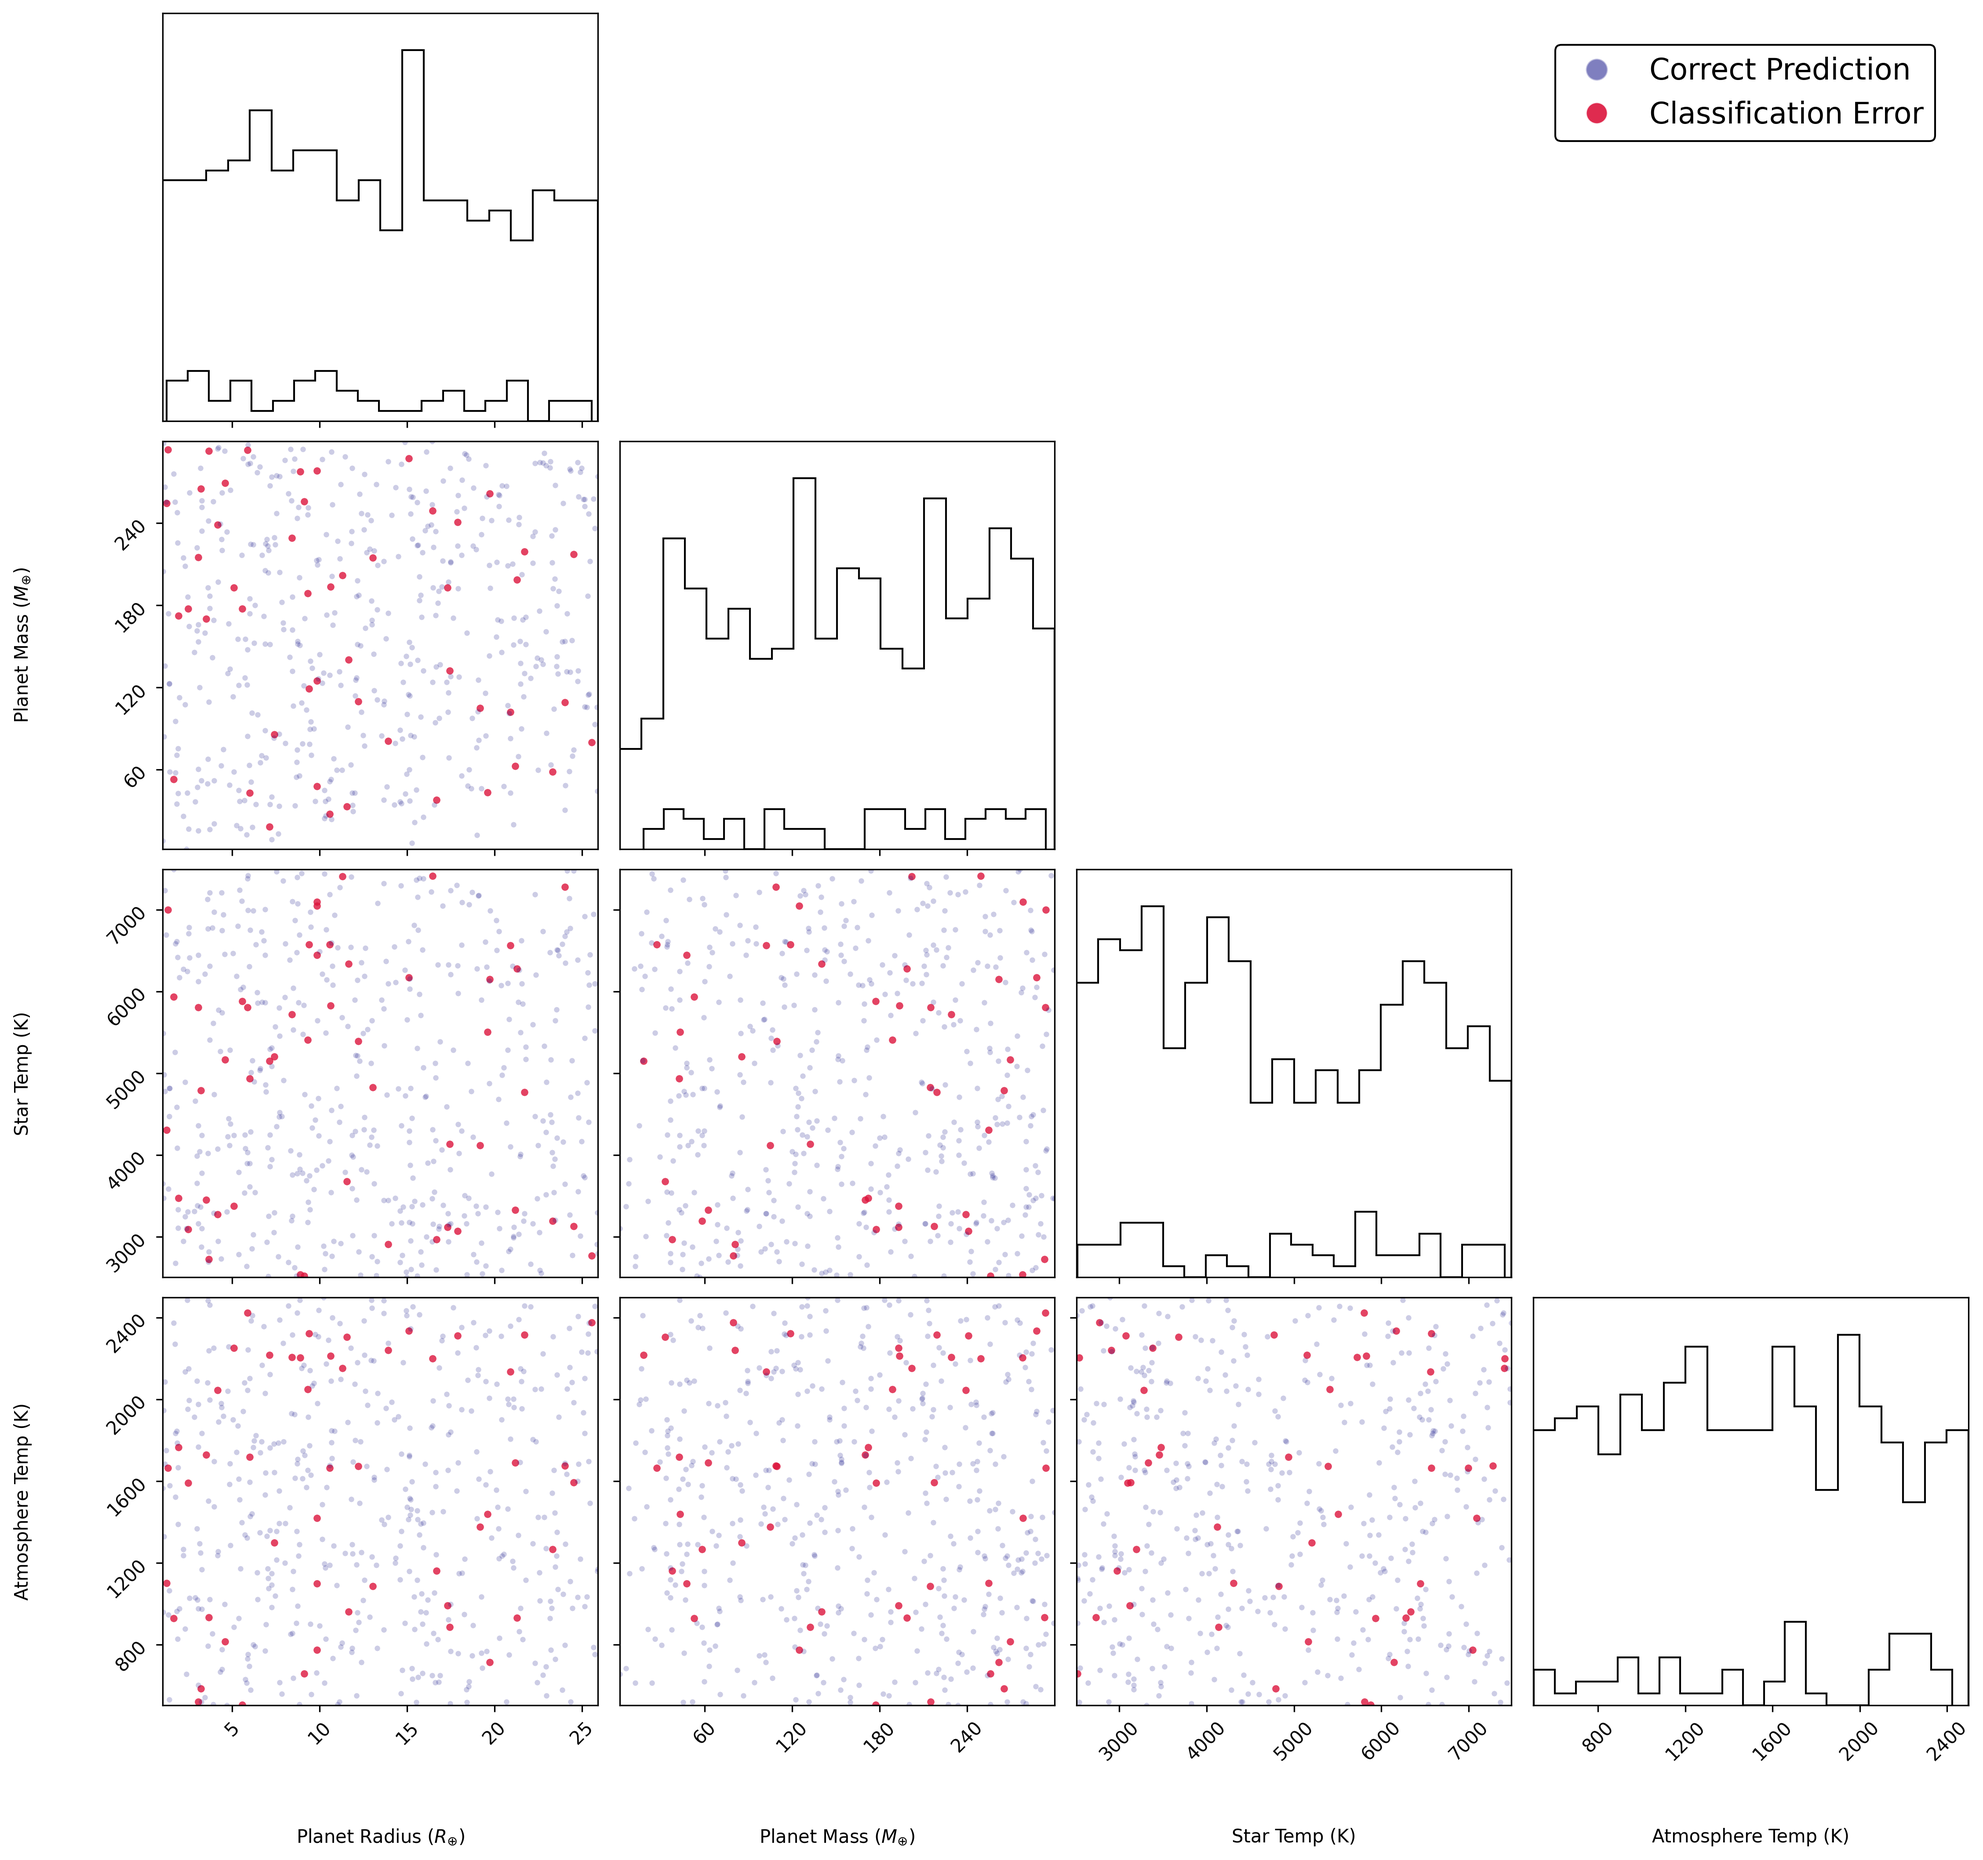
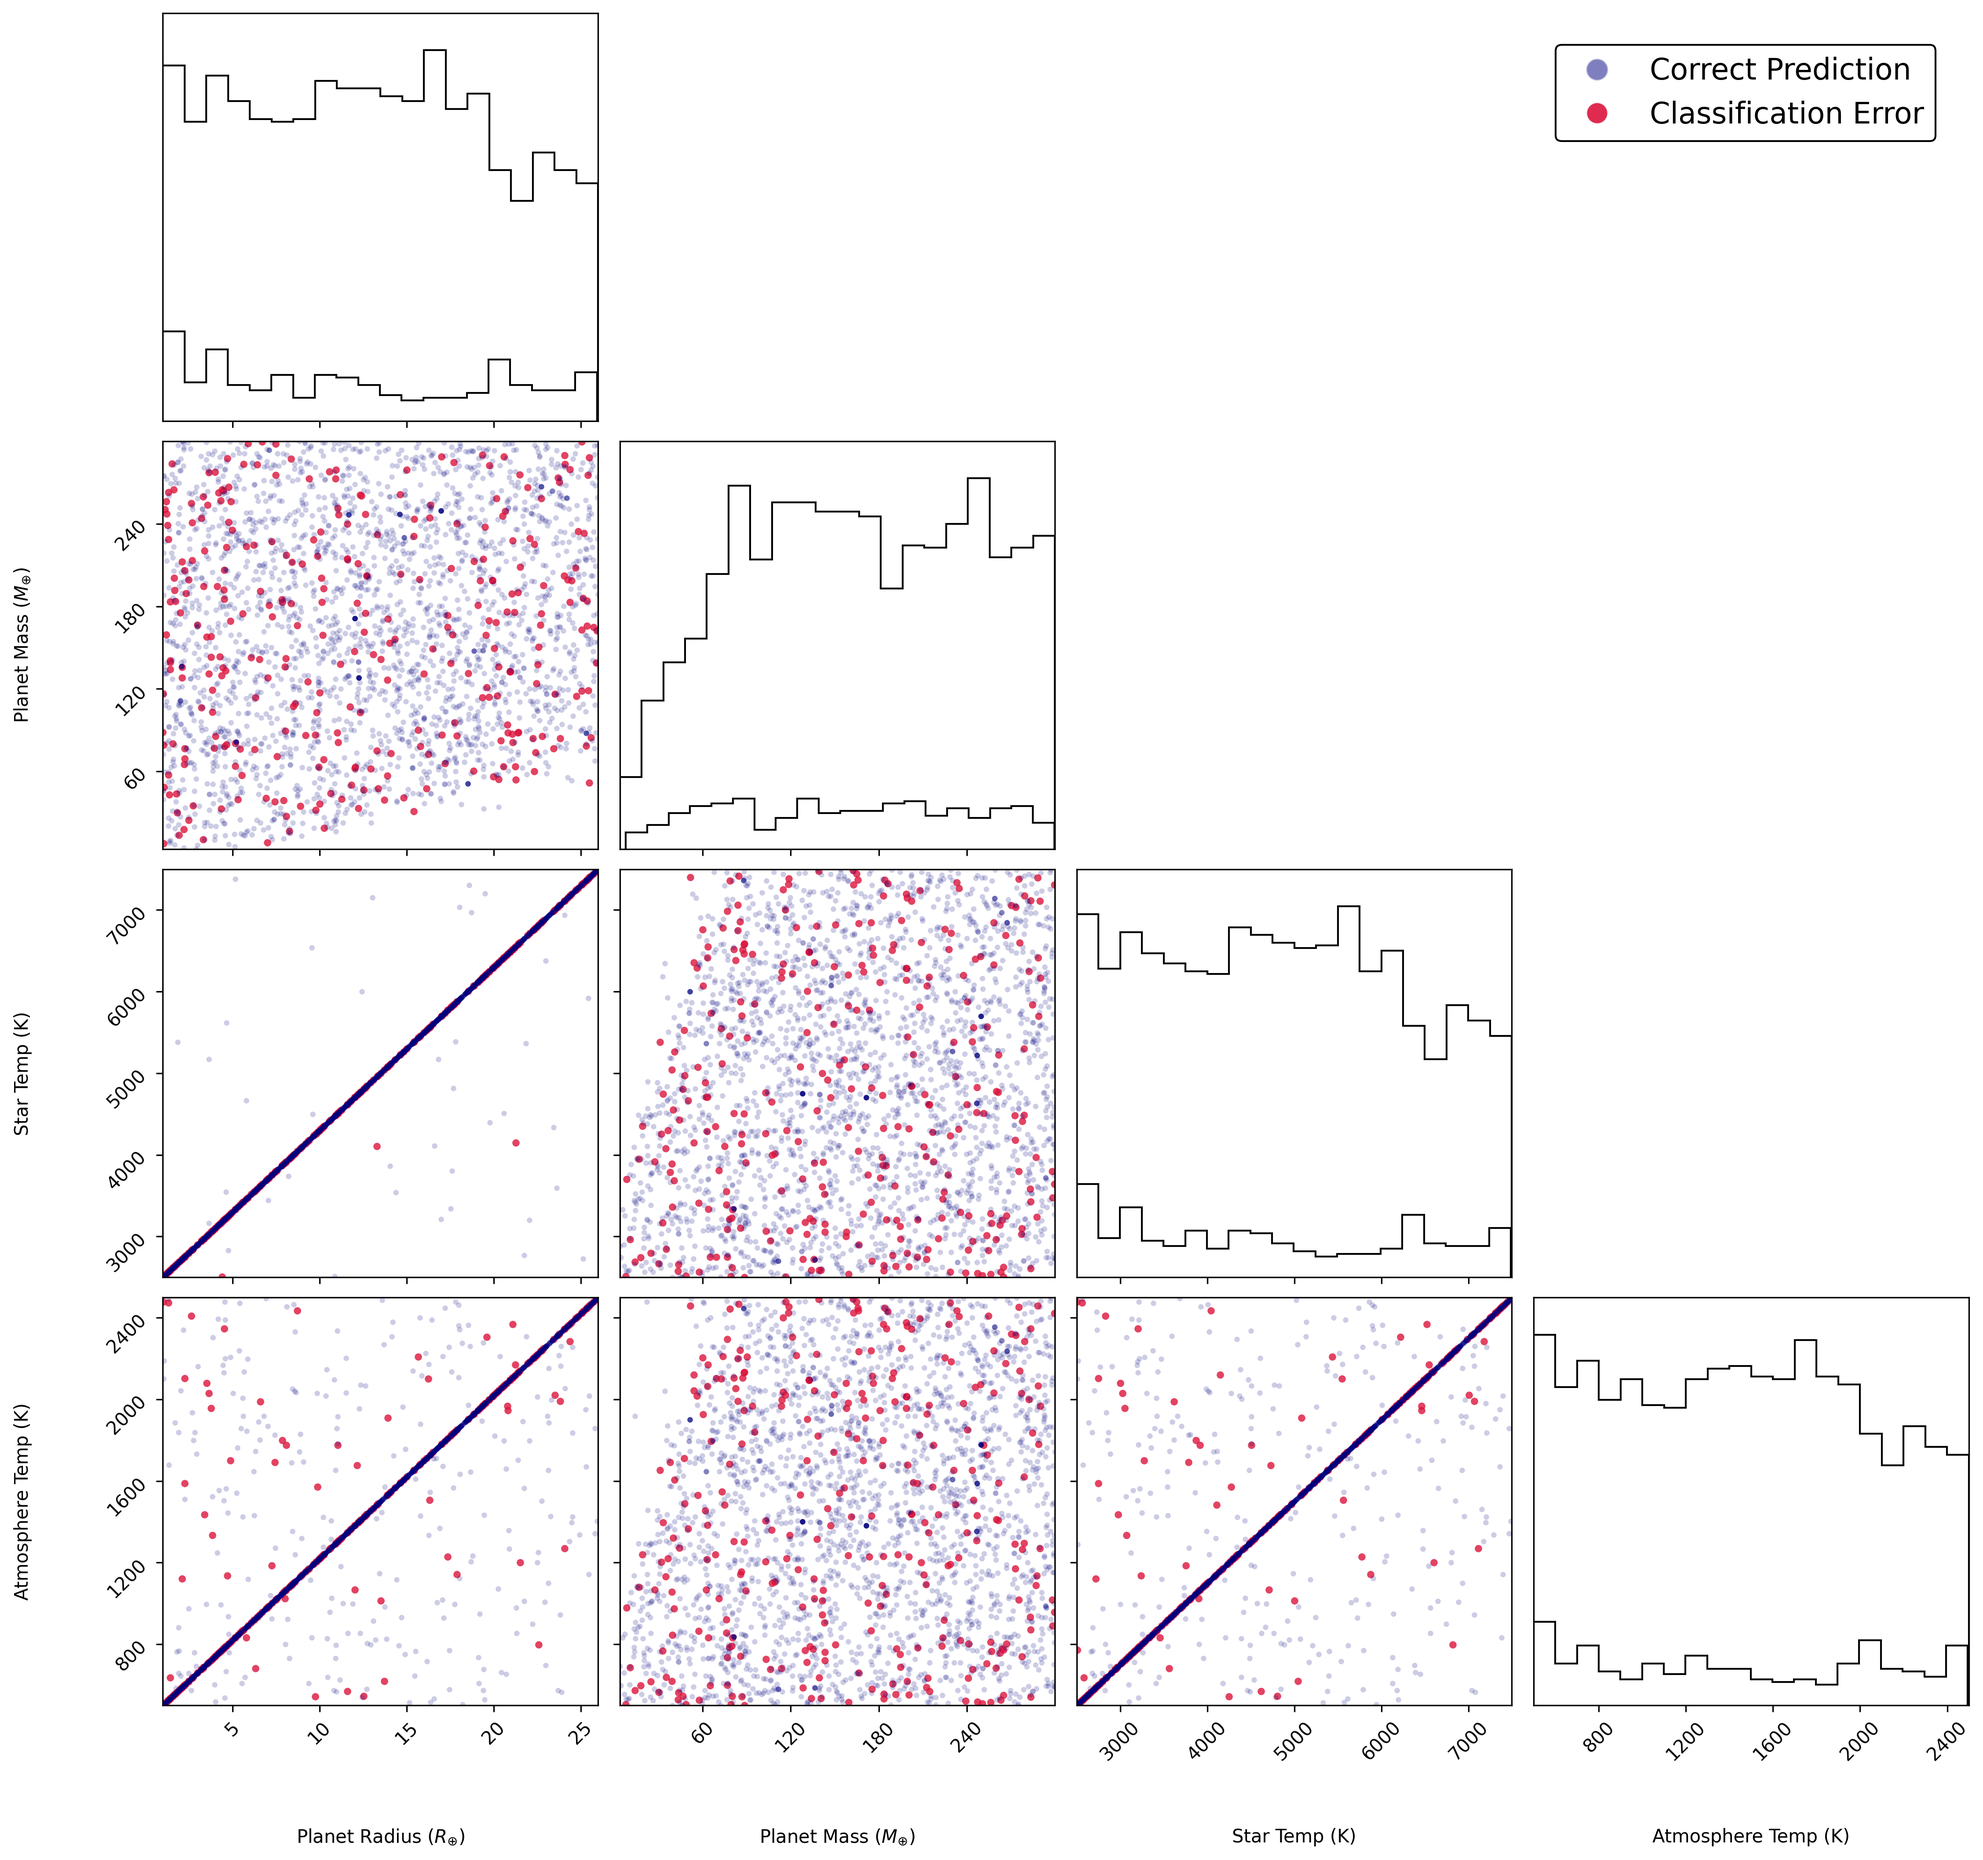
revision: regenerate Figure 6 from the current data and align it with the headline pipeline
Figure 6 was the only stale figure in the set: its source PNG predated the
data files by six days, so it showed the physical parameters as uncorrelated
scatter clouds, which the delivered dataset does not reproduce. With the
sampling coupling now stated in Section 3.5, a figure showing clouds would
have contradicted the text at exactly the place a reviewer would check it.

fix_xgboost_corner.py is also brought onto the headline pipeline: all 102
components (it used PCs 2-101), 200 estimators and subsample 0.8 (it used 300
and 1.0), the five test sets pooled rather than one, and the same
transit-depth cleaning as everything else. It now reports 88.58%, matching
Section 4.2 and H2_error_quintiles.txt, so the figure depicts the model the
paper actually recommends and the planets Section 4.3 quantifies. The caption
no longer needs its disclosure about a different component range.

Three of the six panels are now near-degenerate lines. The caption says so,
points to Section 3.5, and carries the U-shaped error rates from Section 4.3.
It also warns that those diagonals are densely overplotted: the sparse
off-diagonal errors look more significant than they are. Checked directly -
in the radius/atmosphere-temperature panel off-diagonal planets err at 16.1%
against 10.8% on it, but in the radius/stellar-temperature panel they err
less (7.0% against 11.5%, on 43 planets), so the apparent concentration of
red away from the diagonals is mostly a plotting artefact rather than signal.

diff --git a/fix_xgboost_corner.py b/fix_xgboost_corner.py
@@ -3,15 +3,21 @@ import numpy as np
 import matplotlib.pyplot as plt
 from sklearn.preprocessing import StandardScaler
 from sklearn.decomposition import PCA
+from sklearn.utils import shuffle
 from xgboost import XGBClassifier
 import corner
 import os
 import re
 
 # --- Configuration ---
+# Uses the headline pipeline of Section 4.1: all 102 components and the tuned
+# XGBoost configuration, evaluated on the five test sets pooled, so this figure
+# depicts the same model and the same planets as the error rates quoted in
+# Section 4.3 (see analyze_error_quintiles.py).
 FILL_GAS = "H2"
+SEED = 42
 TRAIN_FILE = f"multirex_spectra_{FILL_GAS}_train.parquet"
-TEST_FILE = f"multirex_spectra_{FILL_GAS}_test.parquet"
+TEST_FILES = [f"multirex_spectra_{FILL_GAS}_test_set_{i}.parquet" for i in range(1, 6)]
 RESULTS_DIR = "final_results/plots"
 PARAMS_TO_PLOT = ['p_radius', 'p_mass', 's temperature', 'atm temperature']
 LABELS = ['Planet Radius ($R_{\oplus}$)', 'Planet Mass ($M_{\oplus}$)', 'Star Temp (K)', 'Atmosphere Temp (K)']
@@ -22,13 +28,18 @@ if not os.path.exists(RESULTS_DIR):
 # --- Load and Prepare Data ---
 print("--- Loading and Preparing Data ---")
 df_train = pd.read_parquet(TRAIN_FILE)
-df_test = pd.read_parquet(TEST_FILE)
+df_test = pd.concat([pd.read_parquet(f) for f in TEST_FILES], ignore_index=True)
 
 df_train['label'] = df_train['biosignature'].apply(lambda x: 1 if x == 'yes' else 0)
 df_test['label'] = df_test['biosignature'].apply(lambda x: 1 if x == 'yes' else 0)
 
 float_pattern = re.compile(r"^-?\d+\.\d+$")
 cols = [c for c in df_train.columns if isinstance(c, float) or (isinstance(c, str) and float_pattern.match(c))]
+
+# Drop physically impossible transit depths, as in the main pipeline.
+df_train = df_train[(df_train[cols].values <= 1.0).all(axis=1)].reset_index(drop=True)
+df_test = df_test[(df_test[cols].values <= 1.0).all(axis=1)].reset_index(drop=True)
+print(f"    train {len(df_train)}   test {len(df_test)}")
 
 X_train_raw = df_train[cols].values
 y_train = df_train['label'].values
@@ -41,18 +52,18 @@ scaler = StandardScaler()
 X_train_s = scaler.fit_transform(X_train_raw)
 X_test_s = scaler.transform(X_test_raw)
 
-pca = PCA()
-X_train_p = pca.fit_transform(X_train_s)
-X_test_p = pca.transform(X_test_s)
-
-X_train_clean = X_train_p[:, 2:102] 
-X_test_clean = X_test_p[:, 2:102]
+pca = PCA(n_components=102, random_state=SEED)
+X_train_clean = pca.fit_transform(X_train_s)
+X_test_clean = pca.transform(X_test_s)
 
 # --- Train XGBoost ---
 print("--- Training XGBoost ---")
-model = XGBClassifier(n_estimators=300, max_depth=5, learning_rate=0.2, subsample=1.0, random_state=42, n_jobs=-1, eval_metric='logloss')
+X_train_clean, y_train = shuffle(X_train_clean, y_train, random_state=SEED)
+model = XGBClassifier(n_estimators=200, max_depth=5, learning_rate=0.2, subsample=0.8,
+                      random_state=SEED, n_jobs=-1, eval_metric='logloss')
 model.fit(X_train_clean, y_train)
 y_pred = model.predict(X_test_clean)
+print(f"    pooled test accuracy {100*(y_pred == y_test).mean():.2f}%")
 
 # --- Identify Errors ---
 correct_mask = (y_pred == y_test)

diff --git a/revision/figure_manifest.md b/revision/figure_manifest.md
@@ -19,5 +19,6 @@ The clean, correctly-numbered figure set is in **`revision/figures/figure 1.png 
 ## Notes
 
 - The standalone scree plot (`H2_pca_scree_plot_final.png`, from `generate_final_scree_plot.py`) is not used — its explained-variance data is the top panel of Figure 3.
+- Figure 6 was regenerated after `fix_xgboost_corner.py` was aligned with the headline pipeline: all 102 components (it previously used PCs 2–101), 200 estimators and subsample 0.8 (previously 300 and 1.0), the five test sets pooled rather than one, and the same transit-depth cleaning as the rest of the pipeline. It now reports 88.58%, matching Section 4.2 and `H2_error_quintiles.txt`. The earlier version of this figure predated the current data files by six days and showed the physical parameters as uncorrelated clouds, which the delivered dataset does not reproduce — see the sampling row in Section 3.5.
 - Figure 8 is pooled over all five test sets (2,697 planets) and binned by equal counts, and its MLP/CNN are trained under a fixed TensorFlow seed, so `plot_calibration_curves.py` regenerates it directly (the XGBoost and Random Forest curves exactly; the neural-network curves to within the ~0.3% between-process scatter documented in `H2_mlp_reproducibility.txt`). Its statistics are written to `final_results/H2_calibration.txt` and the ECE values quoted in the caption come from that file. An earlier version of this figure used a single test set (~540 planets) with sklearn's default equal-width bins; because XGBoost's probabilities are strongly bimodal, that left 8–26 planets in the mid-range bins and produced large binomial scatter that read as miscalibration. The pooled equal-count version replaces it.
 - The Brier scores quoted in Section 4.4 (XGBoost 0.0861, RF 0.1304, MLP 0.1466, 1D-CNN 0.2625) are the five-set means carried over from the original submission. XGBoost, Random Forest and MLP reproduce in `H2_calibration.txt` (0.0832 / 0.1284 / 0.1505) within the averaging convention and restart scatter. **The 1D-CNN's 0.2625 does not reproduce** — three seeded restarts give 0.1551 ± 0.0036 — and no committed script computes it (`run_master_5set_evaluation.py`, which produced Table 3, does not calculate Brier scores at all). Confirm its provenance before resubmission.

diff --git a/revision/revised_manuscript.md b/revision/revised_manuscript.md
@@ -242,7 +242,7 @@ This dependence is quantified directly. Binning the test set by how far a planet
 
 ![Figure 6](figures/figure%206.png)
 
-**Figure 6.** Scatter corner plot of classification errors across physical planetary and stellar parameters (planet radius, planet mass, star temperature, atmospheric temperature) for the XGBoost model, trained here on the 100 low-variance components (PCs 2–101), whose accuracy matches the full 102-component pipeline to within 0.3 points (Table 4). Muted-blue points are correct classifications, red points are errors. Errors concentrate at small planetary radii and low atmospheric temperatures, where compressed atmospheric scale heights push spectral signatures toward the simulated instrument noise floor (SNR = 15).
+**Figure 6.** Scatter corner plot of classification errors across physical planetary and stellar parameters (planet radius, planet mass, star temperature, atmospheric temperature) for the XGBoost model, using the full 102-component pipeline on the five test sets pooled (2,697 planets, 88.58% accuracy). Muted-blue points are correct classifications, red points are errors. Three of the six panels are near-degenerate lines rather than clouds: planet radius, stellar temperature and atmospheric temperature covary in the generated dataset (Section 3.5), so those panels display a single sampled direction rather than three independent ones. Their diagonals are densely overplotted, which makes the sparse off-diagonal errors more conspicuous than their number warrants; the error rate away from the diagonal is comparable to that along it. Errors are least frequent in the interior of each parameter range and rise toward both ends—14.6% for the coldest fifth of atmospheres and 15.7% for the smallest fifth of planets, but also 14.3% and 14.1% for the hottest and largest fifths—so compressed scale height accounts for the low-amplitude end rather than the whole pattern (Section 4.3).
 
 ![Figure 7](figures/figure%207.png)
 
